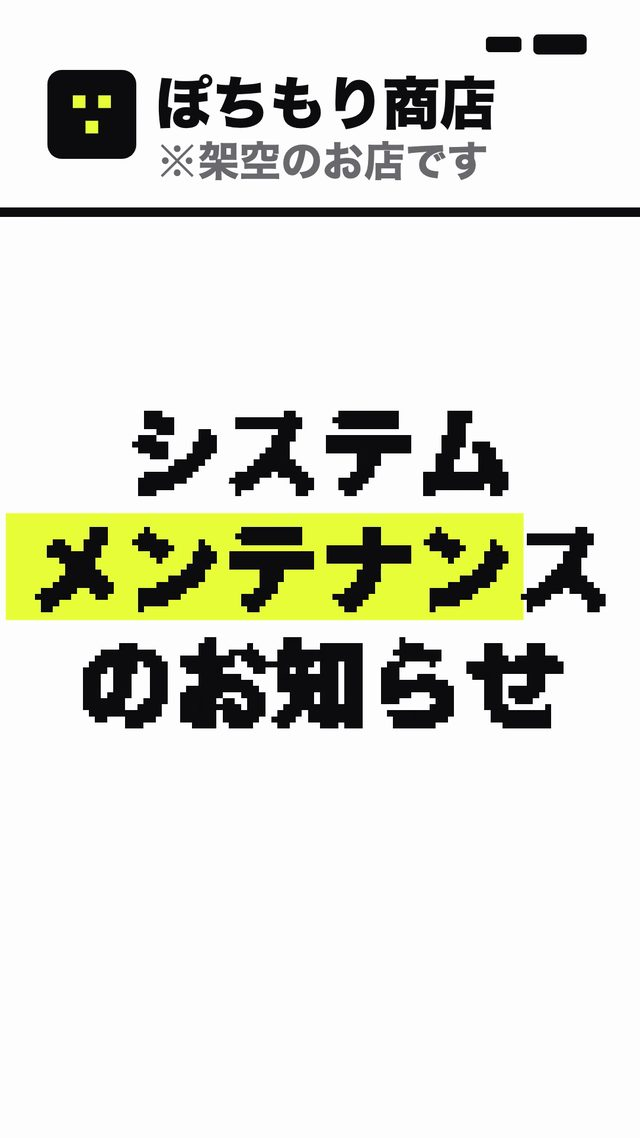
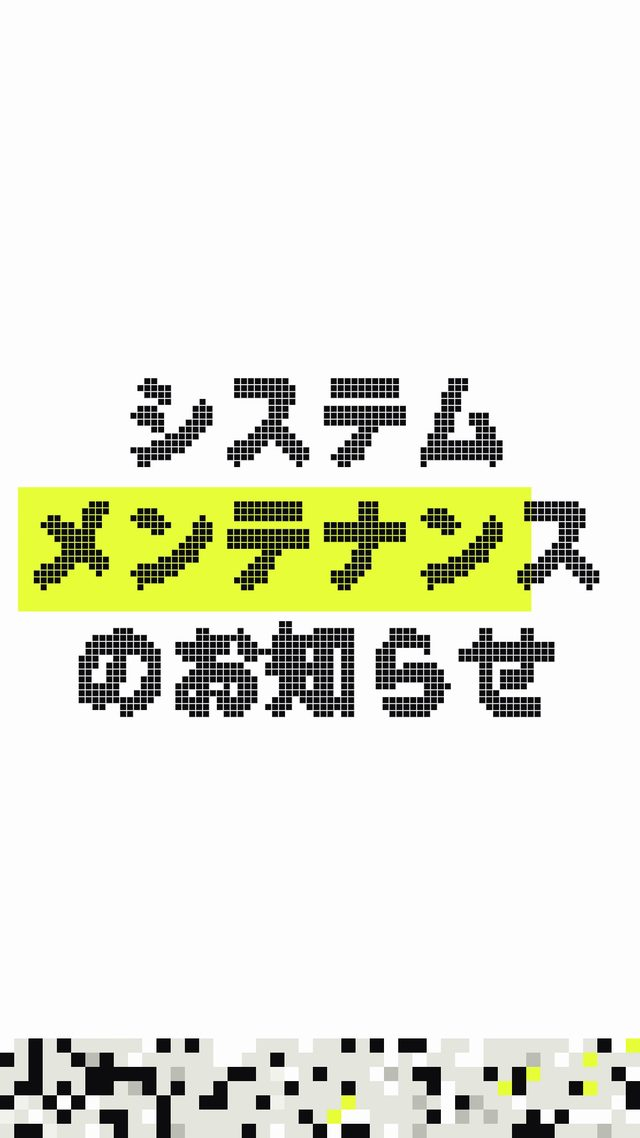
実験室の作品棚：メンテナンスのお知らせを作り直した版に（10/8）

diff --git a/lab-works.html b/lab-works.html
@@ -92,7 +92,7 @@ html.js-ready .card.hide{display:none}
   .hero{padding:40px 0 30px}
   .filter{position:static}
 }
-</style></head><body><header class="hero"><div class="wrap"><div class="hero__grid"><div><p class="kicker">実験室・作品棚</p><h1 class="hero__title"><span class="nb">作った物と、</span><span class="nb">そのプロンプト。</span></h1><p class="hero__lead"><span class="nb">完成品と、</span><span class="nb">そのまま貼れる頼み方を</span><span class="nb">1枚ずつ。</span></p><ul class="stats"><li><b>265</b>作品</li><li><b>136</b>プロンプトあり</li><li><b>129</b>回収中</li></ul></div><div><div class="ornament"><svg viewBox="0 0 460 26" fill="none" xmlns="http://www.w3.org/2000/svg" aria-hidden="true"><path d="M0 13 H190" stroke="#ddd4bf" stroke-width="1"/><path d="M270 13 H460" stroke="#ddd4bf" stroke-width="1"/><circle cx="230" cy="13" r="8.5" stroke="#a2803a" stroke-width="1.2"/><path d="M212 13 h9 M239 13 h9" stroke="#a2803a" stroke-width="1.2"/><path d="M226.5 13 l2.6 2.8 l4.6 -5.6" stroke="#a2803a" stroke-width="1.4" stroke-linecap="round" stroke-linejoin="round"/></svg></div><p class="hero__note">おけもんカンパニーで作った動画・絵・ゲーム・道具を、作ったときのプロンプトと並べた棚です。カードの「コピー」を押すと、プロンプトの原文がそのまま手元に来ます。道具の名前で絞り込めます。</p><p class="hero__quote">Xとかでみんなプロンプト公開してるやん。あーいうのってやっぱうけるからさぁ。少なくても完成品に関しては絶対残しておいたほうがよいわ<small>おけちゃん・2026.09.26</small></p><ul class="links"><li><a href="asobi-100.html"><svg viewBox="0 0 24 24" fill="none" stroke="currentColor" stroke-width="1.7" stroke-linecap="round" stroke-linejoin="round" aria-hidden="true"><path d="M10 5 L3.5 12 L10 19"/><path d="M3.5 12 H20.5"/></svg>おもろいAI実践、100案。</a></li><li><a href="konnano-hoshikatta.html"><svg viewBox="0 0 24 24" fill="none" stroke="currentColor" stroke-width="1.7" stroke-linecap="round" stroke-linejoin="round" aria-hidden="true"><path d="M10 5 L3.5 12 L10 19"/><path d="M3.5 12 H20.5"/></svg>こんなのほしかった、192件。</a></li><li><a href="#list"><svg viewBox="0 0 24 24" fill="none" stroke="currentColor" stroke-width="1.7" stroke-linecap="round" stroke-linejoin="round" aria-hidden="true"><path d="M12 4v14"/><path d="M6 12l6 6 6-6"/></svg>作品へ</a></li></ul></div></div></div></header><nav class="filter" aria-label="絞り込み"><div class="wrap"><div class="filter__row"><p class="filter__lab">道具</p><button type="button" class="chip on" data-k="tool" data-v="all" aria-pressed="true">すべて<span class="chip__n">265</span></button><button type="button" class="chip" data-k="tool" data-v="ChatGPT" aria-pressed="false">ChatGPT<span class="chip__n">69</span></button><button type="button" class="chip" data-k="tool" data-v="MiniMax" aria-pressed="false">MiniMax<span class="chip__n">4</span></button><button type="button" class="chip" data-k="tool" data-v="Google Flow" aria-pressed="false">Google Flow<span class="chip__n">11</span></button><button type="button" class="chip" data-k="tool" data-v="Gemini" aria-pressed="false">Gemini<span class="chip__n">71</span></button><button type="button" class="chip" data-k="tool" data-v="Suno" aria-pressed="false">Suno<span class="chip__n">17</span></button><button type="button" class="chip" data-k="tool" data-v="Fish Audio" aria-pressed="false">Fish Audio<span class="chip__n">11</span></button><button type="button" class="chip" data-k="tool" data-v="HyperFrames" aria-pressed="false">HyperFrames<span class="chip__n">89</span></button><button type="button" class="chip" data-k="tool" data-v="Claude Code" aria-pressed="false">Claude Code<span class="chip__n">98</span></button><button type="button" class="chip" data-k="tool" data-v="Codex" aria-pressed="false">Codex<span class="chip__n">92</span></button><button type="button" class="chip" data-k="tool" data-v="Astra" aria-pressed="false">Astra<span class="chip__n">36</span></button><button type="button" class="chip" data-k="tool" data-v="Blender" aria-pressed="false">Blender<span class="chip__n">16</span></button><button type="button" class="chip" data-k="tool" data-v="three.js" aria-pressed="false">three.js<span class="chip__n">31</span></button><button type="button" class="chip" data-k="tool" data-v="Vids" aria-pressed="false">Vids<span class="chip__n">1</span></button><p class="filter__lab" style="margin-left:10px">状態</p><button type="button" class="chip" data-k="st" data-v="ok" aria-pressed="false">プロンプトあり<span class="chip__n">136</span></button><button type="button" class="chip" data-k="st" data-v="pending" aria-pressed="false">回収中<span class="chip__n">129</span></button></div><p class="filter__cnt" id="cnt" aria-live="polite"></p></div></nav><main class="list" id="list"><div class="wrap"><ul class="grid"><li class="card" data-tools="Codex" data-st="pending"><div class="card__thumb"><img src="lab-works/thumbs/ceo-pj--2026-10-16-17-dd77d9.jpg" alt="東京遠征しおりの更新記録の一場面" loading="lazy" decoding="async"></div><div class="card__body"><div class="card__meta"><span class="card__date">2026.10.16</span><span class="tag">Codex</span></div><h2 class="card__title">東京遠征しおりの更新記録</h2><p class="card__lead">本人の依頼原文：「それをしおりにもはんえいさせつつ ランチ決めからやってこー」。追加：「もくもく会のチャットを作る子班も出してー 新宿オフィス14:00〜17:00 募集6人ぐらい（おけもん、りんつ主催で合計8人） 一旦それで作っておこー」。</p><p class="pending">プロンプトは回収中。見つかり次第、ここに並びます。</p><p class="card__path">森：はるかCEO/PJ_東京遠征_2026-10-16_17/PROCESS.md</p></div></li><li class="card" data-tools="ChatGPT" data-st="pending"><div class="card__thumb"><img src="lab-works/thumbs/ceo-pj--2026-10-16-17-assets-2026-10-16-750fdf.jpg" alt="10/16 もくもく会サムネの一場面" loading="lazy" decoding="async"></div><div class="card__body"><div class="card__meta"><span class="card__date">2026.10.16</span><span class="tag">ChatGPT</span></div><h2 class="card__title">10/16 もくもく会サムネ</h2><p class="card__lead">本人の依頼原文： &gt; ちゃんとタグとかサムネも作ってね</p><p class="pending">プロンプトは回収中。見つかり次第、ここに並びます。</p><p class="card__path">森：はるかCEO/PJ_東京遠征_2026-10-16_17/assets/2026-10-16_もくもく会準備/PROCESS.md</p></div></li><li class="card" data-tools="ChatGPT" data-st="pending"><div class="card__thumb"><img src="lab-works/thumbs/sales-consultation-2026-10-14-7d3222.jpg" alt="営業相談会のサムネ・アイコン制作の一場面" loading="lazy" decoding="async"></div><div class="card__body"><div class="card__meta"><span class="card__date">2026.10.14</span><span class="tag">ChatGPT</span></div><h2 class="card__title">営業相談会のサムネ・アイコン制作</h2><p class="card__lead">「場所は梅田オフィス、人数は管理者入れて8人ぐらい」「うん、ざっくり話してるからとりあえずチャットとサムネ作って」「必要であれば相談しながらチューニングしていこー」</p><p class="pending">プロンプトは回収中。見つかり次第、ここに並びます。</p><p class="card__path">森：outputs/sales-consultation-2026-10-14/PROCESS.md</p></div></li><li class="card" data-tools="three.js" data-st="ok"><div class="card__thumb"><img src="lab-works/thumbs/okemon-otehon-moon-phases-2026-10-08-68d5c8.jpg" alt="月の満ち欠け — おけもん版（お手本：回る円だけで絵が描ける：フーリエ級数の解説）の一場面" loading="lazy" decoding="async"></div><div class="card__body"><div class="card__meta"><span class="card__date">2026.10.08</span><span class="tag">three.js</span></div><h2 class="card__title">月の満ち欠け — おけもん版（お手本：回る円だけで絵が描ける：フーリエ級数の解説）</h2><p class="card__lead">大きな満月が満ち欠けを1回だけ早回しで見せる（答えを先に）→ 縮んで「上から見た図」の軌道に降り、巻き戻って新月の位置へ（1つに戻る）→ 月が1/8ずつ進むたび、金（光っている半分）と淡い青（地球に向いた半分）の重なりが光り、点線をつたって下の「地球から見た月」になり、1つずつ列に並ぶ（新月・三日月・半月・満月、残り3つは加速）→ 並ん…</p><div class="prompt"><div class="prompt__bar"><span>プロンプト</span><button type="button" class="btn copy">コピー</button></div><pre>あなたが今できる最高のモーショングラフィックで、見た人が思わず「すごい」と声に出す1本を作ってください。
+</style></head><body><header class="hero"><div class="wrap"><div class="hero__grid"><div><p class="kicker">実験室・作品棚</p><h1 class="hero__title"><span class="nb">作った物と、</span><span class="nb">そのプロンプト。</span></h1><p class="hero__lead"><span class="nb">完成品と、</span><span class="nb">そのまま貼れる頼み方を</span><span class="nb">1枚ずつ。</span></p><ul class="stats"><li><b>267</b>作品</li><li><b>136</b>プロンプトあり</li><li><b>131</b>回収中</li></ul></div><div><div class="ornament"><svg viewBox="0 0 460 26" fill="none" xmlns="http://www.w3.org/2000/svg" aria-hidden="true"><path d="M0 13 H190" stroke="#ddd4bf" stroke-width="1"/><path d="M270 13 H460" stroke="#ddd4bf" stroke-width="1"/><circle cx="230" cy="13" r="8.5" stroke="#a2803a" stroke-width="1.2"/><path d="M212 13 h9 M239 13 h9" stroke="#a2803a" stroke-width="1.2"/><path d="M226.5 13 l2.6 2.8 l4.6 -5.6" stroke="#a2803a" stroke-width="1.4" stroke-linecap="round" stroke-linejoin="round"/></svg></div><p class="hero__note">おけもんカンパニーで作った動画・絵・ゲーム・道具を、作ったときのプロンプトと並べた棚です。カードの「コピー」を押すと、プロンプトの原文がそのまま手元に来ます。道具の名前で絞り込めます。</p><p class="hero__quote">Xとかでみんなプロンプト公開してるやん。あーいうのってやっぱうけるからさぁ。少なくても完成品に関しては絶対残しておいたほうがよいわ<small>おけちゃん・2026.09.26</small></p><ul class="links"><li><a href="asobi-100.html"><svg viewBox="0 0 24 24" fill="none" stroke="currentColor" stroke-width="1.7" stroke-linecap="round" stroke-linejoin="round" aria-hidden="true"><path d="M10 5 L3.5 12 L10 19"/><path d="M3.5 12 H20.5"/></svg>おもろいAI実践、100案。</a></li><li><a href="konnano-hoshikatta.html"><svg viewBox="0 0 24 24" fill="none" stroke="currentColor" stroke-width="1.7" stroke-linecap="round" stroke-linejoin="round" aria-hidden="true"><path d="M10 5 L3.5 12 L10 19"/><path d="M3.5 12 H20.5"/></svg>こんなのほしかった、192件。</a></li><li><a href="#list"><svg viewBox="0 0 24 24" fill="none" stroke="currentColor" stroke-width="1.7" stroke-linecap="round" stroke-linejoin="round" aria-hidden="true"><path d="M12 4v14"/><path d="M6 12l6 6 6-6"/></svg>作品へ</a></li></ul></div></div></div></header><nav class="filter" aria-label="絞り込み"><div class="wrap"><div class="filter__row"><p class="filter__lab">道具</p><button type="button" class="chip on" data-k="tool" data-v="all" aria-pressed="true">すべて<span class="chip__n">267</span></button><button type="button" class="chip" data-k="tool" data-v="ChatGPT" aria-pressed="false">ChatGPT<span class="chip__n">69</span></button><button type="button" class="chip" data-k="tool" data-v="MiniMax" aria-pressed="false">MiniMax<span class="chip__n">4</span></button><button type="button" class="chip" data-k="tool" data-v="Google Flow" aria-pressed="false">Google Flow<span class="chip__n">11</span></button><button type="button" class="chip" data-k="tool" data-v="Gemini" aria-pressed="false">Gemini<span class="chip__n">72</span></button><button type="button" class="chip" data-k="tool" data-v="Suno" aria-pressed="false">Suno<span class="chip__n">18</span></button><button type="button" class="chip" data-k="tool" data-v="Fish Audio" aria-pressed="false">Fish Audio<span class="chip__n">11</span></button><button type="button" class="chip" data-k="tool" data-v="HyperFrames" aria-pressed="false">HyperFrames<span class="chip__n">91</span></button><button type="button" class="chip" data-k="tool" data-v="Claude Code" aria-pressed="false">Claude Code<span class="chip__n">99</span></button><button type="button" class="chip" data-k="tool" data-v="Codex" aria-pressed="false">Codex<span class="chip__n">93</span></button><button type="button" class="chip" data-k="tool" data-v="Astra" aria-pressed="false">Astra<span class="chip__n">36</span></button><button type="button" class="chip" data-k="tool" data-v="Blender" aria-pressed="false">Blender<span class="chip__n">16</span></button><button type="button" class="chip" data-k="tool" data-v="three.js" aria-pressed="false">three.js<span class="chip__n">31</span></button><button type="button" class="chip" data-k="tool" data-v="Vids" aria-pressed="false">Vids<span class="chip__n">1</span></button><p class="filter__lab" style="margin-left:10px">状態</p><button type="button" class="chip" data-k="st" data-v="ok" aria-pressed="false">プロンプトあり<span class="chip__n">136</span></button><button type="button" class="chip" data-k="st" data-v="pending" aria-pressed="false">回収中<span class="chip__n">131</span></button></div><p class="filter__cnt" id="cnt" aria-live="polite"></p></div></nav><main class="list" id="list"><div class="wrap"><ul class="grid"><li class="card" data-tools="Codex" data-st="pending"><div class="card__thumb"><img src="lab-works/thumbs/ceo-pj--2026-10-16-17-dd77d9.jpg" alt="東京遠征しおりの更新記録の一場面" loading="lazy" decoding="async"></div><div class="card__body"><div class="card__meta"><span class="card__date">2026.10.16</span><span class="tag">Codex</span></div><h2 class="card__title">東京遠征しおりの更新記録</h2><p class="card__lead">本人の依頼原文：「それをしおりにもはんえいさせつつ ランチ決めからやってこー」。追加：「もくもく会のチャットを作る子班も出してー 新宿オフィス14:00〜17:00 募集6人ぐらい（おけもん、りんつ主催で合計8人） 一旦それで作っておこー」。</p><p class="pending">プロンプトは回収中。見つかり次第、ここに並びます。</p><p class="card__path">森：はるかCEO/PJ_東京遠征_2026-10-16_17/PROCESS.md</p></div></li><li class="card" data-tools="ChatGPT" data-st="pending"><div class="card__thumb"><img src="lab-works/thumbs/ceo-pj--2026-10-16-17-assets-2026-10-16-750fdf.jpg" alt="10/16 もくもく会サムネの一場面" loading="lazy" decoding="async"></div><div class="card__body"><div class="card__meta"><span class="card__date">2026.10.16</span><span class="tag">ChatGPT</span></div><h2 class="card__title">10/16 もくもく会サムネ</h2><p class="card__lead">本人の依頼原文： &gt; ちゃんとタグとかサムネも作ってね</p><p class="pending">プロンプトは回収中。見つかり次第、ここに並びます。</p><p class="card__path">森：はるかCEO/PJ_東京遠征_2026-10-16_17/assets/2026-10-16_もくもく会準備/PROCESS.md</p></div></li><li class="card" data-tools="ChatGPT" data-st="pending"><div class="card__thumb"><img src="lab-works/thumbs/sales-consultation-2026-10-14-7d3222.jpg" alt="営業相談会のサムネ・アイコン制作の一場面" loading="lazy" decoding="async"></div><div class="card__body"><div class="card__meta"><span class="card__date">2026.10.14</span><span class="tag">ChatGPT</span></div><h2 class="card__title">営業相談会のサムネ・アイコン制作</h2><p class="card__lead">「場所は梅田オフィス、人数は管理者入れて8人ぐらい」「うん、ざっくり話してるからとりあえずチャットとサムネ作って」「必要であれば相談しながらチューニングしていこー」</p><p class="pending">プロンプトは回収中。見つかり次第、ここに並びます。</p><p class="card__path">森：outputs/sales-consultation-2026-10-14/PROCESS.md</p></div></li><li class="card" data-tools="HyperFrames|Claude Code" data-st="pending"><div class="card__thumb"><img src="lab-works/thumbs/okemon-otehon-maintenance-2026-09-30-qa-v-before-2026-10-08-55a3c5.jpg" alt="架空のオンラインショップのシステムメンテナンスのお知らせ — おけもん版（お手本：Databricks の開発者サイトのブランド映像）の一場面" loading="lazy" decoding="async"></div><div class="card__body"><div class="card__meta"><span class="card__date">2026.10.08</span><span class="tag">HyperFrames</span><span class="tag">Claude Code</span></div><h2 class="card__title">架空のオンラインショップのシステムメンテナンスのお知らせ — おけもん版（お手本：Databricks の開発者サイトのブランド映像）</h2><p class="card__lead">白と黒に蛍光イエロー1色。1本の黒い線が走って、斜めに浮いたスマホの輪郭を描く。架空のお店の画面（字のない形だけ）が時間差で並び、読み込みバーが62%で止まる。カメラが画面の中へ飛び込み、着地の拍で画面が乱れて文字化け。見出しが1行ずつ化けた字からドット絵の字に整い、「10/15」「2:00〜5:00」が決まって、線が時間のバーになって…</p><p class="kv"><b>道具</b>Claude Code（Claude Opus 5.5・手足として実行）。絵は Canvas 2D の図形と字＋CSS の3D（スマホの傾きと飛び込み）＋SVG の線だけ、音は Web Audio の合成（素材ファイル0・CDN 0）。録画だけ HyperFrames 0.8.79</p><p class="pending">プロンプトは回収中。見つかり次第、ここに並びます。</p><p class="card__path">森：outputs/okemon-otehon-maintenance-2026-09-30/qa/v-before-2026-10-08/PROCESS.md</p></div></li><li class="card" data-tools="three.js" data-st="ok"><div class="card__thumb"><img src="lab-works/thumbs/okemon-otehon-moon-phases-2026-10-08-68d5c8.jpg" alt="月の満ち欠け — おけもん版（お手本：回る円だけで絵が描ける：フーリエ級数の解説）の一場面" loading="lazy" decoding="async"></div><div class="card__body"><div class="card__meta"><span class="card__date">2026.10.08</span><span class="tag">three.js</span></div><h2 class="card__title">月の満ち欠け — おけもん版（お手本：回る円だけで絵が描ける：フーリエ級数の解説）</h2><p class="card__lead">大きな満月が満ち欠けを1回だけ早回しで見せる（答えを先に）→ 縮んで「上から見た図」の軌道に降り、巻き戻って新月の位置へ（1つに戻る）→ 月が1/8ずつ進むたび、金（光っている半分）と淡い青（地球に向いた半分）の重なりが光り、点線をつたって下の「地球から見た月」になり、1つずつ列に並ぶ（新月・三日月・半月・満月、残り3つは加速）→ 並ん…</p><div class="prompt"><div class="prompt__bar"><span>プロンプト</span><button type="button" class="btn copy">コピー</button></div><pre>あなたが今できる最高のモーショングラフィックで、見た人が思わず「すごい」と声に出す1本を作ってください。
 いま世界中で話題の「AIが本気で作るモーショングラフィック」です。あなたの腕前を、出し惜しみせず全力で証明してください。
 
 ■ 作りたいもの（本人の言葉）
@@ -139,7 +139,7 @@ html.js-ready .card.hide{display:none}
 - キャラクターや動物の絵をコードで描かない。図形・文字・模様・光・3Dの形で表現する（写真やイラストのファイルを渡された時だけ、それを使う）
 
 作り始める前に、芯のアイデアと場面の流れを3行で書き出してから作ってください。
-完成したら、使った演出と、芯のアイデアを1行ずつ教えてください。</pre><button type="button" class="prompt__more" aria-expanded="false">全部見る</button></div><p class="note">prompt.txt が原文（アプリ「これをお手本に作る」の注文書）。同じ物に近づけるなら、上の「注文書に足した言葉」を「作りたいもの」の下に足す。</p><p class="card__path">森：outputs/okemon-otehon-moon-phases-2026-10-08/PROCESS.md</p></div></li><li class="card" data-tools="HyperFrames|three.js" data-st="ok"><div class="card__thumb"><img src="lab-works/thumbs/okemon-otehon-niji-2026-10-07-6436ff.jpg" alt="虹ができるしくみ — おけもん版（お手本：ブラックホールで光が曲がる実験室）の一場面" loading="lazy" decoding="async"></div><div class="card__body"><div class="card__meta"><span class="card__date">2026.10.07</span><span class="tag">HyperFrames</span><span class="tag">three.js</span></div><h2 class="card__title">虹ができるしくみ — おけもん版（お手本：ブラックホールで光が曲がる実験室）</h2><p class="card__lead">1本の白い光を最後まで追いかける。雨の窓辺の机で、ランプの光がプリズムで7色にほどけ、スポイトから落ちた雨つぶが光の中で止まり、カメラがその中へ飛びこむ。断面で「① まがる ② はね返る ③ もう一度 まがる」と 42° を見て、引くと高いつぶは赤・低いつぶは紫だけが目に届く。のぞき窓をくぐると、空じゅうのつぶが1色ずつ光って虹になり…</p><div class="prompt"><div class="prompt__bar"><span>プロンプト</span><button type="button" class="btn copy">コピー</button></div><pre>あなたが今できる最高のモーショングラフィックで、見た人が思わず「すごい」と声に出す1本を作ってください。
+完成したら、使った演出と、芯のアイデアを1行ずつ教えてください。</pre><button type="button" class="prompt__more" aria-expanded="false">全部見る</button></div><p class="note">prompt.txt が原文（アプリ「これをお手本に作る」の注文書）。同じ物に近づけるなら、上の「注文書に足した言葉」を「作りたいもの」の下に足す。</p><p class="card__path">森：outputs/okemon-otehon-moon-phases-2026-10-08/PROCESS.md</p></div></li><li class="card" data-tools="Gemini|Suno|HyperFrames|Codex" data-st="pending"><div class="card__thumb"><img src="lab-works/thumbs/insta-reels-2026-10-08-otehon-watch-repair-cfd1af.jpg" alt="No19「直して、次の100年へ」Instagramリールの一場面" loading="lazy" decoding="async"></div><div class="card__body"><div class="card__meta"><span class="card__date">2026.10.08</span><span class="tag">Gemini</span><span class="tag">Suno</span><span class="tag">HyperFrames</span><span class="tag">Codex</span></div><h2 class="card__title">No19「直して、次の100年へ」Instagramリール</h2><p class="pending">プロンプトは回収中。見つかり次第、ここに並びます。</p><p class="card__path">森：outputs/insta-reels/2026-10-08_otehon-watch-repair/PROCESS.md</p></div></li><li class="card" data-tools="HyperFrames|three.js" data-st="ok"><div class="card__thumb"><img src="lab-works/thumbs/okemon-otehon-niji-2026-10-07-6436ff.jpg" alt="虹ができるしくみ — おけもん版（お手本：ブラックホールで光が曲がる実験室）の一場面" loading="lazy" decoding="async"></div><div class="card__body"><div class="card__meta"><span class="card__date">2026.10.07</span><span class="tag">HyperFrames</span><span class="tag">three.js</span></div><h2 class="card__title">虹ができるしくみ — おけもん版（お手本：ブラックホールで光が曲がる実験室）</h2><p class="card__lead">1本の白い光を最後まで追いかける。雨の窓辺の机で、ランプの光がプリズムで7色にほどけ、スポイトから落ちた雨つぶが光の中で止まり、カメラがその中へ飛びこむ。断面で「① まがる ② はね返る ③ もう一度 まがる」と 42° を見て、引くと高いつぶは赤・低いつぶは紫だけが目に届く。のぞき窓をくぐると、空じゅうのつぶが1色ずつ光って虹になり…</p><div class="prompt"><div class="prompt__bar"><span>プロンプト</span><button type="button" class="btn copy">コピー</button></div><pre>あなたが今できる最高のモーショングラフィックで、見た人が思わず「すごい」と声に出す1本を作ってください。
 いま世界中で話題の「AIが本気で作るモーショングラフィック」です。あなたの腕前を、出し惜しみせず全力で証明してください。
 
 ■ 作りたいもの（本人の言葉）
@@ -912,7 +912,7 @@ AI初心者サポートチャットが1000人こえたのーー👏
 あなたが今できる最高のモーショングラフィックで、見た人が思わず「すごい」と声に出す1本を作ってください。
 いま世界中で話題の「AIが本気で作るモーショングラフィック」です。あなたの腕前を、出し惜しみせず全力で証明してください。
 
-（作業フォルダに入れて渡した物：チャットの概要欄の文と管理者3人の名前・3人のアイコン画像・このお祝い用に作った曲。使うかどうか、どう使うかは自由）</pre><button type="button" class="prompt__more" aria-expanded="false">全部見る</button></div><p class="note">原文は prompt_shelf.txt</p><p class="card__path">森：outputs/amnesia-1000-2026-10-01/opus/PROCESS.md</p></div></li><li class="card" data-tools="ChatGPT" data-st="ok"><div class="card__thumb"><img src="lab-works/thumbs/cpo--assets-2026-10-01-3d1edb.jpg" alt="10/1 神戸もくもく作業会 アイコンの一場面" loading="lazy" decoding="async"></div><div class="card__body"><div class="card__meta"><span class="card__date">2026.10.01</span><span class="tag">ChatGPT</span></div><h2 class="card__title">10/1 神戸もくもく作業会 アイコン</h2><p class="card__lead">「あ、ついでに明日のおふかいのサムネ、アイコンが入ってなかったから なんかおけもんの作業会風のイメージアイコン作って入れておいてー」</p><div class="prompt"><div class="prompt__bar"><span>プロンプト</span><button type="button" class="btn copy">コピー</button></div><pre>Create a square 1:1 chat icon for Oke&#x27;s friendly beginner-welcome coworking meetup. Reference image: the supplied official Oke icon, a fluffy tan capybara with a small yellow-green budgerigar on its head. Preserve the recognizable face, fur, and bird design; reference is for character identity, not an edit target. Scene: Oke happily concentrating on a laptop at a small warm wooden desk, budgerigar perched on its head looking at the screen, a notebook and warm mug subtly present. Style: charming Japanese hand-drawn illustration with soft rounded shapes, clean bold outlines, warm cream and fresh sage green colors, friendly focused atmosphere. Composition: large capybara face in the upper center and laptop in the lower center, both readable at 80 pixels; ample margins safe for circular avatar cropping, uncluttered cream and sage background. No humans, no title, no text, no dates, no logos, no watermark. Opaque background. This is a cozy work-session icon, not a lecture scene.</pre><button type="button" class="prompt__more" aria-expanded="false">全部見る</button></div><p class="card__path">森：ゆいCPO/オフ会ログ/assets/2026-10-01_神戸もくもく作業会/PROCESS.md</p></div></li><li class="card" data-tools="Gemini|Codex" data-st="pending"><div class="card__thumb card__thumb--none">画像はまだ</div><div class="card__body"><div class="card__meta"><span class="card__date">2026.09.30</span><span class="tag">Gemini</span><span class="tag">Codex</span></div><h2 class="card__title">相談案内の制作・反映記録</h2><p class="card__lead">本人の頼み方: 「noteとかのプロフィールを変えて導線を整えていきつつ、AIもストレングスファインダーもやってるよ」「ヒアリング無料」「うまいことやってる人はどうやっているのかっていう見本を見ながら」。</p><p class="pending">プロンプトは回収中。見つかり次第、ここに並びます。</p><p class="card__path">森：りんCMO/PJ_SNS総合戦略実験/2026-09-30_相談導線整備/PROCESS.md</p></div></li><li class="card" data-tools="HyperFrames|Codex" data-st="pending"><div class="card__thumb"><img src="lab-works/thumbs/openai-devday-2026-09-30-motion-whiteboard-75b03f.jpg" alt="白板解説版の制作記録の一場面" loading="lazy" decoding="async"></div><div class="card__body"><div class="card__meta"><span class="card__date">2026.09.30</span><span class="tag">HyperFrames</span><span class="tag">Codex</span></div><h2 class="card__title">白板解説版の制作記録</h2><p class="card__lead">USER_REQUEST.txt の原文：</p><p class="pending">プロンプトは回収中。見つかり次第、ここに並びます。</p><p class="card__path">森：outputs/openai-devday-2026-09-30/motion-whiteboard/PROCESS.md</p></div></li><li class="card" data-tools="HyperFrames|Claude Code" data-st="ok"><div class="card__thumb"><img src="lab-works/thumbs/okemon-otehon-maintenance-2026-09-30-64bbe0.jpg" alt="架空のオンラインショップのシステムメンテナンスのお知らせ — おけもん版（お手本：Databricks の開発者サイトのブランド映像）の一場面" loading="lazy" decoding="async"></div><div class="card__body"><div class="card__meta"><span class="card__date">2026.09.30</span><span class="tag">HyperFrames</span><span class="tag">Claude Code</span></div><h2 class="card__title">架空のオンラインショップのシステムメンテナンスのお知らせ — おけもん版（お手本：Databricks の開発者サイトのブランド映像）</h2><p class="card__lead">白と黒に蛍光イエロー1色。1本の黒い線が走って、斜めに浮いたスマホの輪郭を描く。架空のお店の画面（字のない形だけ）が時間差で並び、読み込みバーが62%で止まる。カメラが画面の中へ飛び込み、着地の拍で画面が乱れて文字化け。見出しが1行ずつ化けた字からドット絵の字に整い、「10/15」「2:00〜5:00」が決まって、線が時間のバーになって…</p><p class="kv"><b>道具</b>Claude Code（Claude Opus 5.5・手足として実行）。絵は Canvas 2D の図形と字＋CSS の3D（スマホの傾きと飛び込み）＋SVG の線だけ、音は Web Audio の合成（素材ファイル0・CDN 0）。録画だけ HyperFrames 0.8.79</p><div class="prompt"><div class="prompt__bar"><span>プロンプト</span><button type="button" class="btn copy">コピー</button></div><pre>あなたが今できる最高のモーショングラフィックで、見た人が思わず「すごい」と声に出す1本を作ってください。
+（作業フォルダに入れて渡した物：チャットの概要欄の文と管理者3人の名前・3人のアイコン画像・このお祝い用に作った曲。使うかどうか、どう使うかは自由）</pre><button type="button" class="prompt__more" aria-expanded="false">全部見る</button></div><p class="note">原文は prompt_shelf.txt</p><p class="card__path">森：outputs/amnesia-1000-2026-10-01/opus/PROCESS.md</p></div></li><li class="card" data-tools="ChatGPT" data-st="ok"><div class="card__thumb"><img src="lab-works/thumbs/cpo--assets-2026-10-01-3d1edb.jpg" alt="10/1 神戸もくもく作業会 アイコンの一場面" loading="lazy" decoding="async"></div><div class="card__body"><div class="card__meta"><span class="card__date">2026.10.01</span><span class="tag">ChatGPT</span></div><h2 class="card__title">10/1 神戸もくもく作業会 アイコン</h2><p class="card__lead">「あ、ついでに明日のおふかいのサムネ、アイコンが入ってなかったから なんかおけもんの作業会風のイメージアイコン作って入れておいてー」</p><div class="prompt"><div class="prompt__bar"><span>プロンプト</span><button type="button" class="btn copy">コピー</button></div><pre>Create a square 1:1 chat icon for Oke&#x27;s friendly beginner-welcome coworking meetup. Reference image: the supplied official Oke icon, a fluffy tan capybara with a small yellow-green budgerigar on its head. Preserve the recognizable face, fur, and bird design; reference is for character identity, not an edit target. Scene: Oke happily concentrating on a laptop at a small warm wooden desk, budgerigar perched on its head looking at the screen, a notebook and warm mug subtly present. Style: charming Japanese hand-drawn illustration with soft rounded shapes, clean bold outlines, warm cream and fresh sage green colors, friendly focused atmosphere. Composition: large capybara face in the upper center and laptop in the lower center, both readable at 80 pixels; ample margins safe for circular avatar cropping, uncluttered cream and sage background. No humans, no title, no text, no dates, no logos, no watermark. Opaque background. This is a cozy work-session icon, not a lecture scene.</pre><button type="button" class="prompt__more" aria-expanded="false">全部見る</button></div><p class="card__path">森：ゆいCPO/オフ会ログ/assets/2026-10-01_神戸もくもく作業会/PROCESS.md</p></div></li><li class="card" data-tools="Gemini|Codex" data-st="pending"><div class="card__thumb card__thumb--none">画像はまだ</div><div class="card__body"><div class="card__meta"><span class="card__date">2026.09.30</span><span class="tag">Gemini</span><span class="tag">Codex</span></div><h2 class="card__title">相談案内の制作・反映記録</h2><p class="card__lead">本人の頼み方: 「noteとかのプロフィールを変えて導線を整えていきつつ、AIもストレングスファインダーもやってるよ」「ヒアリング無料」「うまいことやってる人はどうやっているのかっていう見本を見ながら」。</p><p class="pending">プロンプトは回収中。見つかり次第、ここに並びます。</p><p class="card__path">森：りんCMO/PJ_SNS総合戦略実験/2026-09-30_相談導線整備/PROCESS.md</p></div></li><li class="card" data-tools="HyperFrames|Codex" data-st="pending"><div class="card__thumb"><img src="lab-works/thumbs/openai-devday-2026-09-30-motion-whiteboard-75b03f.jpg" alt="白板解説版の制作記録の一場面" loading="lazy" decoding="async"></div><div class="card__body"><div class="card__meta"><span class="card__date">2026.09.30</span><span class="tag">HyperFrames</span><span class="tag">Codex</span></div><h2 class="card__title">白板解説版の制作記録</h2><p class="card__lead">USER_REQUEST.txt の原文：</p><p class="pending">プロンプトは回収中。見つかり次第、ここに並びます。</p><p class="card__path">森：outputs/openai-devday-2026-09-30/motion-whiteboard/PROCESS.md</p></div></li><li class="card" data-tools="HyperFrames|Claude Code" data-st="ok"><div class="card__thumb"><img src="lab-works/thumbs/okemon-otehon-maintenance-2026-09-30-64bbe0.jpg" alt="架空のネットショップ「システムメンテナンスのお知らせ」（作り直し 2026-10-08）の一場面" loading="lazy" decoding="async"></div><div class="card__body"><div class="card__meta"><span class="card__date">2026.09.30</span><span class="tag">HyperFrames</span><span class="tag">Claude Code</span></div><h2 class="card__title">架空のネットショップ「システムメンテナンスのお知らせ」（作り直し 2026-10-08）</h2><p class="card__lead">使った曲：なし（BGM 128BPM と効果音は、すべて motion.html の Web Audio でコードから合成） 語り：なし --preview-at：9.4秒（音なしで 9.4〜12.9秒＝上にドット字の「システム メンテナンス のお知らせ」、「10/15」「2:00〜5:00」が出そろい、時計の針が5:00で目覚ましが鳴…</p><p class="kv"><b>道具</b>Claude Code（Claude Opus 5.5・手足として実行）。絵は Canvas 2D の図形・字・ドット＋CSS の3D（スマホの傾き・飛び込み・締めの引き）＋SVG の線だけ、音は Web Audio の合成（素材ファイル0・CDN 0）。録画だけ HyperFrames 0.8.79</p><div class="prompt"><div class="prompt__bar"><span>プロンプト</span><button type="button" class="btn copy">コピー</button></div><pre>あなたが今できる最高のモーショングラフィックで、見た人が思わず「すごい」と声に出す1本を作ってください。
 いま世界中で話題の「AIが本気で作るモーショングラフィック」です。あなたの腕前を、出し惜しみせず全力で証明してください。
 
 ■ 作りたいもの（本人の言葉）
@@ -958,7 +958,7 @@ AI初心者サポートチャットが1000人こえたのーー👏
 - キャラクターや動物の絵をコードで描かない。図形・文字・模様・光・3Dの形で表現する（写真やイラストのファイルを渡された時だけ、それを使う）
 
 作り始める前に、芯のアイデアと場面の流れを3行で書き出してから作ってください。
-完成したら、使った演出と、芯のアイデアを1行ずつ教えてください。</pre><button type="button" class="prompt__more" aria-expanded="false">全部見る</button></div><p class="note">お手本：Pixel Point さん「Databricks Developers — branding &amp; design reel」https://x.com/alex_barashkov/status/2084313374393835699 。手元の outputs/motion-refs/databricks-developers-brand-reel/contact.jpg（0.5秒ごと）と world.json の trait…</p><p class="note">注文書は prompt.txt の原文（1字も変えていない）。</p><p class="note">注文書に加えて、司令塔からの発注で決まっていたこと（gallery-notes/otehon_queue.md 次9・共通メモの「◎の行の作り方」）：</p><p class="card__path">森：outputs/okemon-otehon-maintenance-2026-09-30/PROCESS.md</p></div></li><li class="card" data-tools="ChatGPT|Codex" data-st="ok"><div class="card__thumb"><img src="lab-works/thumbs/openai-devday-2026-09-30-motion-whiteboard-style-test-511016.jpg" alt="手描きの絵柄試作 PROCESSの一場面" loading="lazy" decoding="async"></div><div class="card__body"><div class="card__meta"><span class="card__date">2026.09.30</span><span class="tag">ChatGPT</span><span class="tag">Codex</span></div><h2 class="card__title">手描きの絵柄試作 PROCESS</h2><p class="card__lead">「あと絵とか手書きのクオリティがまだ差があるなぁと思ってるんだけど🤔」</p><div class="prompt"><div class="prompt__bar"><span>プロンプト</span><button type="button" class="btn copy">コピー</button></div><pre>Use the most recent screenshot (an X post showing a whiteboard explanation video) ONLY as a visual style reference. Create a brand new high quality STILL FRAME for a Japanese explanatory whiteboard video, 16:9 horizontal, 1920x1080. This is a style test for improving illustrations in an existing video, not a promotional banner.
+完成したら、使った演出と、芯のアイデアを1行ずつ教えてください。</pre><button type="button" class="prompt__more" aria-expanded="false">全部見る</button></div><p class="note">prompt.txt の原文（1字も変えていない）。</p><p class="note">お手本：Pixel Point さん「Databricks Developers — branding &amp; design reel」https://x.com/alex_barashkov/status/2084313374393835699</p><p class="note">原文は prompt.txt</p><p class="card__path">森：outputs/okemon-otehon-maintenance-2026-09-30/PROCESS.md</p></div></li><li class="card" data-tools="ChatGPT|Codex" data-st="ok"><div class="card__thumb"><img src="lab-works/thumbs/openai-devday-2026-09-30-motion-whiteboard-style-test-511016.jpg" alt="手描きの絵柄試作 PROCESSの一場面" loading="lazy" decoding="async"></div><div class="card__body"><div class="card__meta"><span class="card__date">2026.09.30</span><span class="tag">ChatGPT</span><span class="tag">Codex</span></div><h2 class="card__title">手描きの絵柄試作 PROCESS</h2><p class="card__lead">「あと絵とか手書きのクオリティがまだ差があるなぁと思ってるんだけど🤔」</p><div class="prompt"><div class="prompt__bar"><span>プロンプト</span><button type="button" class="btn copy">コピー</button></div><pre>Use the most recent screenshot (an X post showing a whiteboard explanation video) ONLY as a visual style reference. Create a brand new high quality STILL FRAME for a Japanese explanatory whiteboard video, 16:9 horizontal, 1920x1080. This is a style test for improving illustrations in an existing video, not a promotional banner.
 Inherit the reference&#x27;s restrained fine black felt-tip pen marks on pure flat white, confident gently imperfect curves, large airy negative space, tiny original stick people participating in the diagram, and friendly hand-lettered Japanese labels. Do not include any X interface, player buttons, avatar, watermark, chapter UI, photorealistic screenshot or duplicate the screenshot&#x27;s composition.
 Original composition: top-left handwritten title exactly 「ラジオの準備、お願い。」, modest sized. In the middle a left-to-right story in ONE connected whiteboard diagram, no boxes/card UI: at left an expressive stick person leaning forward slightly, holding a microphone and giving three loose pages of activity notes to a tiny round-headed AI stick person. The AI has a small handwritten &quot;AI&quot; on its chest and is actively carrying or arranging the pages, not standing decoratively. A hand-drawn clock floats modestly above the AI (24 hours concept), not dominant. To the right, a lightly sketched stack of three topic cards on a table with an outline microphone, and a lightly sketched laptop showing a simple document with just lines, next to another small person pointing and checking it with a check mark. Single loose arrows connect the notes -&gt; AI working -&gt; topics/document -&gt; human check. Place small precise hand-lettered labels 「記録」 beneath notes, 「話題」 beneath topic cards, 「資料」 beneath laptop, 「確認」 near checker. The hands, head angles and body pose should reveal what each figure is doing. All characters are original generic stick figures with circle heads, line limbs, small dot eyes and simple friendly expressions.
 Drawing style: pen drawing, black only on white; organic line weights around 1.5-2.5px at 1920px scale, natural single continuous strokes, a few tasteful short hatch accents on pages, no excessive repeated parallel lines, no shaky random distortion. The small original clock is intentionally slightly noncircular, ticks individually placed, limbs and hands are thoughtfully curved rather than ruler-straight. A very thin, gently uneven baseline below the figures. Clear explanation, professional editorial whiteboard illustration. Keep the full illustration in middle 65% of the frame, generous white margins.
